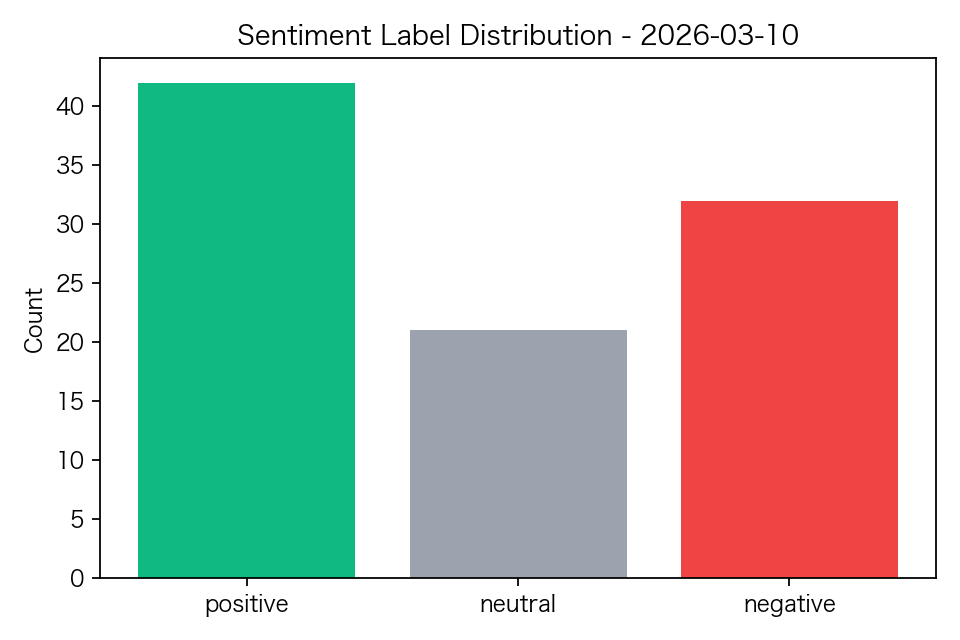
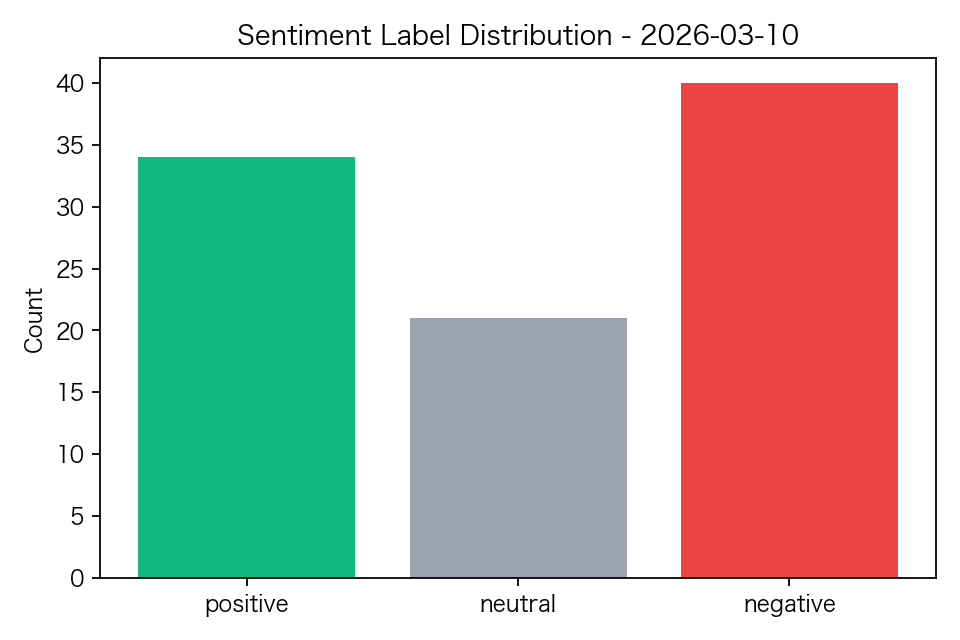
chore: auto update daily report 2026-03-10 00:59

diff --git a/docs/index.html b/docs/index.html
@@ -51,16 +51,16 @@
     <h2 data-lang="zh">最新快照 · 2026-03-10</h2>
     <h2 data-lang="en">Latest Snapshot · 2026-03-10</h2>
     <ul data-lang="zh">
-      <li><strong>当日情绪指数</strong>: -0.0181</li>
-      <li><strong>当日基调</strong>: 中性偏平衡</li>
+      <li><strong>当日情绪指数</strong>: -0.1078</li>
+      <li><strong>当日基调</strong>: 偏谨慎</li>
       <li><strong>清洗后新闻数</strong>: 95</li>
       <li><strong>过滤噪声数</strong>: 21</li>
       <li><strong>沪深300日收益率</strong>: -0.97%</li>
       <li><strong>上证指数日收益率</strong>: -0.67%</li>
     </ul>
     <ul data-lang="en">
-      <li><strong>Daily sentiment index</strong>: -0.0181</li>
-      <li><strong>Daily tone</strong>: Balanced / Neutral</li>
+      <li><strong>Daily sentiment index</strong>: -0.1078</li>
+      <li><strong>Daily tone</strong>: Cautious</li>
       <li><strong>Cleaned news count</strong>: 95</li>
       <li><strong>Dropped noisy items</strong>: 21</li>
       <li><strong>HS300 daily return</strong>: -0.97%</li>
@@ -73,16 +73,16 @@
   <div class="card">
     <h2 data-lang="zh">今日结论</h2>
     <h2 data-lang="en">Today's Take</h2>
-    <p data-lang="zh">今日新闻情绪整体为中性偏平衡，市场偏弱，关注点主要集中在国际局势、能源黄金。当前更适合作为风险情绪观察，而不是方向性预测。</p>
-    <p data-lang="en">Today's news tone is Balanced / Neutral with a softer market backdrop. The main attention is concentrated in Global Geopolitics, Energy & Gold. At this stage, the dashboard is more suitable for risk-sentiment observation than directional prediction.</p>
+    <p data-lang="zh">今日新闻情绪整体为偏谨慎，市场偏弱，关注点主要集中在国际局势、能源黄金。当前更适合作为风险情绪观察，而不是方向性预测。</p>
+    <p data-lang="en">Today's news tone is Cautious with a softer market backdrop. The main attention is concentrated in Global Geopolitics, Energy & Gold. At this stage, the dashboard is more suitable for risk-sentiment observation than directional prediction.</p>
     <p class="muted" data-lang="zh">项目定位：用于观察财经新闻情绪与市场联动，不直接作为交易预测信号。</p>
     <p class="muted" data-lang="en">Project scope: designed for observing news sentiment and market linkage, not as a direct trading signal.</p>
   </div>
   <div class="card">
     <h2 data-lang="zh">情绪-市场联动解释</h2>
     <h2 data-lang="en">Sentiment-Market Linkage</h2>
-    <p data-lang="zh">当日新闻情绪为中性偏平衡，沪深300与上证指数分别下跌 0.97% / 0.67%，情绪与市场方向大体一致。当前历史样本较短，后续需继续积累。</p>
-    <p data-lang="en">Daily news sentiment is Balanced / Neutral, while HS300 and SH Index fell 0.97% / 0.67% respectively. News tone and market direction are broadly aligned. History is still short and needs more daily samples.</p>
+    <p data-lang="zh">当日新闻情绪为偏谨慎，沪深300与上证指数分别下跌 0.97% / 0.67%，情绪与市场方向大体一致。当前历史样本较短，后续需继续积累。</p>
+    <p data-lang="en">Daily news sentiment is Cautious, while HS300 and SH Index fell 0.97% / 0.67% respectively. News tone and market direction are broadly aligned. History is still short and needs more daily samples.</p>
   </div>
 
   <div class="card">
@@ -166,12 +166,12 @@
     <div class="card">
       <h2 data-lang="zh">正面样例</h2>
       <h2 data-lang="en">Positive Examples</h2>
-      <ul><li>与伊朗的长期战争可能对汽油价格产生什么影响</li><li>K型复苏经济加剧女性压力：薪资偏低、生活成本高企导致消费缩减</li><li>美国全国平均汽油价升至每加仑3.48美元 分析称下月涨至4美元概率达80%</li><li>地缘紧张局势升温叠加Truist上调评级，Redwire股价逆市走高</li><li>美国预测市场因其对伊朗战争的押注而面临强烈反对</li></ul>
+      <ul><li>国家体育总局局长：2025年冰雪经济总规模首次突破万亿元大关</li><li>胜宏科技赴港上市获证监会备案 拟发行不超1.1亿股</li><li>微软推出更高定价、搭载Copilot的Office套餐，借AI提振销量</li><li>微软推出Copilot Wave 3及AI软件套装</li><li>多家中小银行宣布存款利率下调</li></ul>
     </div>
     <div class="card">
       <h2 data-lang="zh">负面样例</h2>
       <h2 data-lang="en">Negative Examples</h2>
-      <ul><li>特朗普释放扩大战事信号 滞胀交易席卷全球市场</li><li>纽约联储调查显示通胀预期大体持稳</li><li>日本财务大臣：七国集团同意采取必要措施支持能源供应</li><li>德意志银行据悉拟将奖金池提高逾5% 幅度低于部分华尔街同行</li><li>英国央行面临通胀回升至5%上方的风险 交易员提高加息押注</li></ul>
+      <ul><li>塞尔维亚暂停能源出口以保护市场免受伊朗战争导致的油价飙升影响</li><li>英国央行面临通胀回升至5%上方的风险 交易员提高加息押注</li><li>ETF日报：短期内受风险偏好回落及供应链扰动影响，A股走势或以震荡承压为主</li><li>特朗普释放扩大战事信号 滞胀交易席卷全球市场</li><li>匈牙利总理致信冯德莱恩呼吁取消对俄能源的制裁</li></ul>
     </div>
   </div>
   <footer class="muted" style="margin:32px 0 16px; font-size:14px;">

diff --git a/scripts/build_report.py b/scripts/build_report.py
@@ -60,17 +60,17 @@ KEYWORD_EN = {
 
 
 def classify_index(score: float) -> str:
-    if score > 0.12:
+    if score > 0.08:
         return "偏乐观"
-    if score < -0.12:
+    if score < -0.08:
         return "偏谨慎"
     return "中性偏平衡"
 
 
 def classify_index_en(score: float) -> str:
-    if score > 0.12:
+    if score > 0.08:
         return "Optimistic"
-    if score < -0.12:
+    if score < -0.08:
         return "Cautious"
     return "Balanced / Neutral"
 
@@ -101,7 +101,15 @@ def detect_keywords(titles: list[str]) -> list[tuple[str, int]]:
 
 def select_examples(items: list[dict], label_name: str, limit: int = 5) -> list[str]:
     finance_keywords = ["银行", "股", "油价", "黄金", "经济", "监管", "AI", "汇率", "港股", "A股", "市场", "资本", "美股", "能源", "通胀"]
+    risk_terms = ["战争", "战事", "冲突", "通胀", "加息", "高企", "油价", "制裁", "紧张局势", "押注"]
     pool = [x for x in items if x["sentiment_label"] == label_name]
+
+    if label_name == "positive":
+        pool = [x for x in pool if not any(k in x["title"] for k in risk_terms)]
+        pool = sorted(pool, key=lambda x: x.get("hybrid_score", 0), reverse=True)
+    elif label_name == "negative":
+        pool = sorted(pool, key=lambda x: x.get("hybrid_score", 0))
+
     preferred = [x["title"] for x in pool if any(k in x["title"] for k in finance_keywords)]
     fallback = [x["title"] for x in pool if x["title"] not in preferred]
     return (preferred + fallback)[:limit]
@@ -117,21 +125,21 @@ def calc_return(series: list[dict]) -> float:
 def market_linkage_comment(score: float, hs300_ret: float, sh_ret: float, history_len: int) -> str:
     tone = classify_index(score)
     suffix = "当前历史样本较短，后续需继续积累。" if history_len < 5 else "当前已具备基础连续样本，可继续观察趋势稳定性。"
-    if score > 0 and hs300_ret > 0:
+    if score > 0.08 and hs300_ret > 0:
         return f"当日新闻情绪为{tone}，沪深300与上证指数分别上涨 {hs300_ret}% / {sh_ret}%，情绪与市场方向大体一致。{suffix}"
-    if score < 0 and hs300_ret < 0:
+    if score < -0.08 and hs300_ret < 0:
         return f"当日新闻情绪为{tone}，沪深300与上证指数分别下跌 {abs(hs300_ret)}% / {abs(sh_ret)}%，情绪与市场方向大体一致。{suffix}"
-    return f"当日新闻情绪为{tone}，但沪深300 / 上证指数涨跌幅分别为 {hs300_ret}% / {sh_ret}%，说明新闻情绪与市场表现存在一定背离。{suffix}"
+    return f"当日新闻情绪为{tone}，沪深300 / 上证指数涨跌幅分别为 {hs300_ret}% / {sh_ret}%，更适合解读为情绪偏中性或存在阶段性背离，而不是简单同向验证。{suffix}"
 
 
 def market_linkage_comment_en(score: float, hs300_ret: float, sh_ret: float, history_len: int) -> str:
     tone = classify_index_en(score)
     suffix = "History is still short and needs more daily samples." if history_len < 5 else "A basic continuous sample is now available for further observation."
-    if score > 0 and hs300_ret > 0:
+    if score > 0.08 and hs300_ret > 0:
         return f"Daily news sentiment is {tone}, while HS300 and SH Index rose {hs300_ret}% / {sh_ret}% respectively. News tone and market direction are broadly aligned. {suffix}"
-    if score < 0 and hs300_ret < 0:
+    if score < -0.08 and hs300_ret < 0:
         return f"Daily news sentiment is {tone}, while HS300 and SH Index fell {abs(hs300_ret)}% / {abs(sh_ret)}% respectively. News tone and market direction are broadly aligned. {suffix}"
-    return f"Daily news sentiment is {tone}, but HS300 / SH Index moved {hs300_ret}% / {sh_ret}%, suggesting a short-term divergence between news tone and market performance. {suffix}"
+    return f"Daily news sentiment is {tone}, while HS300 / SH Index moved {hs300_ret}% / {sh_ret}%. This is better interpreted as neutral tone or short-term divergence rather than a clean same-direction confirmation. {suffix}"
 
 
 def build_html(today: str, score: float, tone: str, count: int, dropped: int, topics, keywords, positive_titles, negative_titles, linkage_text: str, linkage_text_en: str, hs300_ret: float, sh_ret: float, today_take_zh: str, today_take_en: str) -> str:

diff --git a/scripts/sentiment_analysis.py b/scripts/sentiment_analysis.py
@@ -13,20 +13,22 @@ PROC_DIR.mkdir(parents=True, exist_ok=True)
 
 POS_WORDS = [
     "上涨", "增长", "提振", "回暖", "改善", "突破", "利好", "走强", "创新高", "净买入", "宽松",
-    "净利预增", "纳入港股通", "大力推广", "正式纳入", "分红"
+    "净利预增", "纳入港股通", "大力推广", "正式纳入", "分红", "上调评级", "超预期", "增持"
 ]
 NEG_WORDS = [
     "下跌", "风险", "承压", "收缩", "违约", "下行", "贬值", "波动", "大跌", "崩盘", "冲突", "通胀担忧", "拖累", "减弱",
-    "撤离", "停火", "抄袭", "致歉", "飙升", "战事", "中断", "震动", "油价飙升", "价格飙升"
+    "撤离", "停火", "抄袭", "致歉", "飙升", "战事", "中断", "震动", "油价飙升", "价格飙升",
+    "滞胀", "通胀", "加息", "高企", "战争", "紧张局势", "袭击", "制裁", "回升至", "押注"
 ]
 
 STRONG_NEG = [
     "下跌", "大跌", "崩盘", "风险", "违约", "拖累", "减弱", "承压", "冲突", "飙升", "恐慌",
-    "撤离", "通胀", "抄袭", "致歉", "战事", "中断", "油价飙升", "价格飙升"
+    "撤离", "通胀", "抄袭", "致歉", "战事", "中断", "油价飙升", "价格飙升", "滞胀", "战争",
+    "紧张局势", "袭击", "制裁", "加息", "高企"
 ]
 STRONG_POS = [
     "增长", "提振", "改善", "突破", "创新高", "净买入", "回暖", "宽松",
-    "净利预增", "纳入港股通", "大力推广", "正式纳入"
+    "净利预增", "纳入港股通", "大力推广", "正式纳入", "上调评级", "超预期", "增持"
 ]
 
 
@@ -51,10 +53,21 @@ def rule_score(title: str) -> float:
 
 def special_case_adjustment(title: str) -> float:
     bonus = 0.0
+    risk_terms = ["战争", "战事", "冲突", "紧张局势", "袭击", "制裁", "滞胀", "通胀", "加息", "高企", "押注"]
+    oil_terms = ["油价", "原油", "汽油价格", "天然气", "能源供应"]
+
     if "油价飙升" in title or "价格飙升" in title:
         bonus -= 1.2
-    if "突破" in title and ("油价" in title or "汽油价格" in title):
+    if any(term in title for term in risk_terms):
+        bonus -= 0.8
+    if any(term in title for term in oil_terms) and any(term in title for term in ["飙升", "升至", "涨至", "高企", "紧张局势"]):
+        bonus -= 0.8
+    if "突破" in title and any(term in title for term in oil_terms):
+        bonus -= 0.8
+    if "上涨" in title and any(term in title for term in ["通胀", "油价", "战争"]):
         bonus -= 0.6
+    if "上调评级" in title and any(term in title for term in ["股价", "公司", "个股"]):
+        bonus += 0.4
     return bonus
 
 def hybrid_score(title: str) -> float:

diff --git a/docs/latest.md b/docs/latest.md
@@ -3,14 +3,14 @@
 ## 1. Daily Sentiment Snapshot
 - Total cleaned news items: 95
 - Dropped noisy items: 21
-- Daily sentiment index: -0.0181
-- Daily tone: 中性偏平衡
-- Label counts: {'neutral': 21, 'negative': 32, 'positive': 42}
+- Daily sentiment index: -0.1078
+- Daily tone: 偏谨慎
+- Label counts: {'neutral': 21, 'negative': 40, 'positive': 34}
 - HS300 daily return: -0.97%
 - SH Index daily return: -0.67%
 
 ## 2. Sentiment-Market Linkage
-- 当日新闻情绪为中性偏平衡，沪深300与上证指数分别下跌 0.97% / 0.67%，情绪与市场方向大体一致。当前历史样本较短，后续需继续积累。
+- 当日新闻情绪为偏谨慎，沪深300与上证指数分别下跌 0.97% / 0.67%，情绪与市场方向大体一致。当前历史样本较短，后续需继续积累。
 
 ## 3. Topic Distribution
 - 其他: 48
@@ -31,18 +31,18 @@
 - 货币政策: 1
 
 ## 5. Positive Headline Examples
-- 与伊朗的长期战争可能对汽油价格产生什么影响
-- K型复苏经济加剧女性压力：薪资偏低、生活成本高企导致消费缩减
-- 美国全国平均汽油价升至每加仑3.48美元 分析称下月涨至4美元概率达80%
-- 地缘紧张局势升温叠加Truist上调评级，Redwire股价逆市走高
-- 美国预测市场因其对伊朗战争的押注而面临强烈反对
+- 国家体育总局局长：2025年冰雪经济总规模首次突破万亿元大关
+- 胜宏科技赴港上市获证监会备案 拟发行不超1.1亿股
+- 微软推出更高定价、搭载Copilot的Office套餐，借AI提振销量
+- 微软推出Copilot Wave 3及AI软件套装
+- 多家中小银行宣布存款利率下调
 
 ## 6. Negative Headline Examples
-- 特朗普释放扩大战事信号 滞胀交易席卷全球市场
-- 纽约联储调查显示通胀预期大体持稳
-- 日本财务大臣：七国集团同意采取必要措施支持能源供应
-- 德意志银行据悉拟将奖金池提高逾5% 幅度低于部分华尔街同行
+- 塞尔维亚暂停能源出口以保护市场免受伊朗战争导致的油价飙升影响
 - 英国央行面临通胀回升至5%上方的风险 交易员提高加息押注
+- ETF日报：短期内受风险偏好回落及供应链扰动影响，A股走势或以震荡承压为主
+- 特朗普释放扩大战事信号 滞胀交易席卷全球市场
+- 匈牙利总理致信冯德莱恩呼吁取消对俄能源的制裁
 
 ## 7. Market Data
 - HS300 latest rows: 10
@@ -56,4 +56,4 @@
 - sentiment_vs_hs300_history.png
 
 ## 9. Brief Comment
-Today's sentiment reading is 中性偏平衡. Key topics are concentrated in 其他, 国际局势, 能源黄金. 当日新闻情绪为中性偏平衡，沪深300与上证指数分别下跌 0.97% / 0.67%，情绪与市场方向大体一致。当前历史样本较短，后续需继续积累。
+Today's sentiment reading is 偏谨慎. Key topics are concentrated in 其他, 国际局势, 能源黄金. 当日新闻情绪为偏谨慎，沪深300与上证指数分别下跌 0.97% / 0.67%，情绪与市场方向大体一致。当前历史样本较短，后续需继续积累。

diff --git a/reports/2026-03-10.md b/reports/2026-03-10.md
@@ -3,14 +3,14 @@
 ## 1. Daily Sentiment Snapshot
 - Total cleaned news items: 95
 - Dropped noisy items: 21
-- Daily sentiment index: -0.0181
-- Daily tone: 中性偏平衡
-- Label counts: {'neutral': 21, 'negative': 32, 'positive': 42}
+- Daily sentiment index: -0.1078
+- Daily tone: 偏谨慎
+- Label counts: {'neutral': 21, 'negative': 40, 'positive': 34}
 - HS300 daily return: -0.97%
 - SH Index daily return: -0.67%
 
 ## 2. Sentiment-Market Linkage
-- 当日新闻情绪为中性偏平衡，沪深300与上证指数分别下跌 0.97% / 0.67%，情绪与市场方向大体一致。当前历史样本较短，后续需继续积累。
+- 当日新闻情绪为偏谨慎，沪深300与上证指数分别下跌 0.97% / 0.67%，情绪与市场方向大体一致。当前历史样本较短，后续需继续积累。
 
 ## 3. Topic Distribution
 - 其他: 48
@@ -31,18 +31,18 @@
 - 货币政策: 1
 
 ## 5. Positive Headline Examples
-- 与伊朗的长期战争可能对汽油价格产生什么影响
-- K型复苏经济加剧女性压力：薪资偏低、生活成本高企导致消费缩减
-- 美国全国平均汽油价升至每加仑3.48美元 分析称下月涨至4美元概率达80%
-- 地缘紧张局势升温叠加Truist上调评级，Redwire股价逆市走高
-- 美国预测市场因其对伊朗战争的押注而面临强烈反对
+- 国家体育总局局长：2025年冰雪经济总规模首次突破万亿元大关
+- 胜宏科技赴港上市获证监会备案 拟发行不超1.1亿股
+- 微软推出更高定价、搭载Copilot的Office套餐，借AI提振销量
+- 微软推出Copilot Wave 3及AI软件套装
+- 多家中小银行宣布存款利率下调
 
 ## 6. Negative Headline Examples
-- 特朗普释放扩大战事信号 滞胀交易席卷全球市场
-- 纽约联储调查显示通胀预期大体持稳
-- 日本财务大臣：七国集团同意采取必要措施支持能源供应
-- 德意志银行据悉拟将奖金池提高逾5% 幅度低于部分华尔街同行
+- 塞尔维亚暂停能源出口以保护市场免受伊朗战争导致的油价飙升影响
 - 英国央行面临通胀回升至5%上方的风险 交易员提高加息押注
+- ETF日报：短期内受风险偏好回落及供应链扰动影响，A股走势或以震荡承压为主
+- 特朗普释放扩大战事信号 滞胀交易席卷全球市场
+- 匈牙利总理致信冯德莱恩呼吁取消对俄能源的制裁
 
 ## 7. Market Data
 - HS300 latest rows: 10
@@ -56,4 +56,4 @@
 - sentiment_vs_hs300_history.png
 
 ## 9. Brief Comment
-Today's sentiment reading is 中性偏平衡. Key topics are concentrated in 其他, 国际局势, 能源黄金. 当日新闻情绪为中性偏平衡，沪深300与上证指数分别下跌 0.97% / 0.67%，情绪与市场方向大体一致。当前历史样本较短，后续需继续积累。
+Today's sentiment reading is 偏谨慎. Key topics are concentrated in 其他, 国际局势, 能源黄金. 当日新闻情绪为偏谨慎，沪深300与上证指数分别下跌 0.97% / 0.67%，情绪与市场方向大体一致。当前历史样本较短，后续需继续积累。

diff --git a/docs/index.md b/docs/index.md
@@ -2,7 +2,7 @@
 
 Latest report: [Daily Report 2026-03-10](./latest.md)
 
-- Latest sentiment tone: 中性偏平衡
+- Latest sentiment tone: 偏谨慎
 - Cleaned news count: 95
 - Dropped noisy items: 21
 - HS300 daily return: -0.97%
